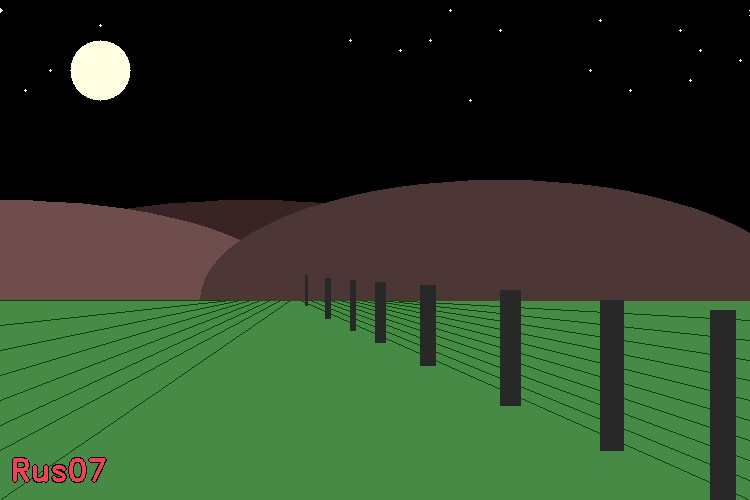
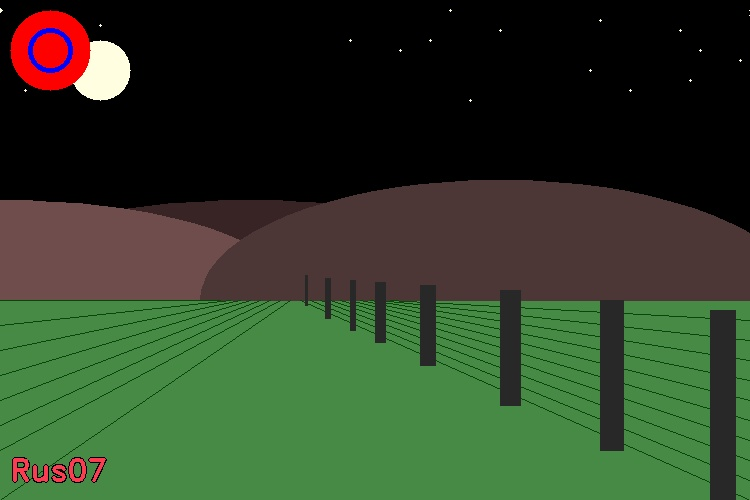
29/08/2022

Changed region(s): [[0.0, 0.0, 0.1227, 0.18]]

diff --git a/week9/HSI_trackbar.py b/week9/HSI_trackbar.py
@@ -1,0 +1,28 @@
+import cv2
+import numpy
+
+
+def nothing(x):
+    pass
+
+
+img = numpy.zeros((512, 512, 3), numpy.uint8)
+cv2.namedWindow("WOW ZAA!!!", cv2.WINDOW_NORMAL)
+
+cv2.createTrackbar("H", "WOW ZAA!!!", 0, 180, nothing)
+cv2.createTrackbar("S", "WOW ZAA!!!", 0, 255, nothing)
+cv2.createTrackbar("I", "WOW ZAA!!!", 0, 255, nothing)
+
+while(True):
+    cv2.imshow("WOW ZAA!!!", img)
+    if cv2.waitKey(1) & 0xFF == ord('q'):
+        break
+
+    r = cv2.getTrackbarPos("H", "WOW ZAA!!!")
+    g = cv2.getTrackbarPos("S", "WOW ZAA!!!")
+    b = cv2.getTrackbarPos("I", "WOW ZAA!!!")
+
+    img[:] = [r, g, b]
+    img = cv2.cvtColor(img, cv2.COLOR_HSV2BGR)
+
+cv2.destroyAllWindows()

diff --git a/week9/RGB_trackbar.py b/week9/RGB_trackbar.py
@@ -1,0 +1,29 @@
+import cv2
+import numpy
+
+
+def nothing(x):
+    pass
+
+
+# window
+img = numpy.zeros((512, 512, 3), numpy.uint8)
+cv2.namedWindow("WOW ZAA!!!", cv2.WINDOW_NORMAL)
+
+# color trackbar
+cv2.createTrackbar("R", "WOW ZAA!!!", 0, 255, nothing)
+cv2.createTrackbar("G", "WOW ZAA!!!", 0, 255, nothing)
+cv2.createTrackbar("B", "WOW ZAA!!!", 0, 255, nothing)
+
+while True:
+    cv2.imshow("WOW ZAA!!!", img)
+    if cv2.waitKey(1) & 0xFF == ord('q'):
+        break
+
+    r = cv2.getTrackbarPos("R", "WOW ZAA!!!")
+    g = cv2.getTrackbarPos("G", "WOW ZAA!!!")
+    b = cv2.getTrackbarPos("B", "WOW ZAA!!!")
+
+    img[:] = [b, g, r]
+
+cv2.destroyAllWindows()

diff --git a/week5/text.py b/week5/text.py
@@ -82,6 +82,9 @@ canvasDraw = cv2.rectangle(canvasDraw, (305, 275), (307, 305), (40, 40, 40), -1)
 canvasDraw = cv2.putText(canvasDraw, 'Rus07', coordinate, font, fontScale, (0, 0, 0), thickness+2)
 canvasDraw = cv2.putText(canvasDraw, 'Rus07', coordinate, font, fontScale, color, thickness)
 
+canvasDraw = cv2.circle(canvasDraw, (50,50), 40, (0,0,255), -1)
+canvasDraw = cv2.circle(canvasDraw, (50,50), 20, (255,0,0), 3)
+
 cv2.imshow("WoW Zaa!!!", canvasDraw)
 
 os.chdir("D:\\workspace\\python\\week5\\img\\")

diff --git a/week6/resize_image.py b/week6/resize_image.py
@@ -1,7 +1,7 @@
 import cv2
 import os
 
-img = cv2.imread("D:\\workspace\\python\\week6\\img\\roi.jpg")
+img = cv2.imread("D:\\workspace\\python\\week6\\img\\roi.jpg", 0)
 
 print("Original Dimensions : ", img.shape)
 
@@ -13,7 +13,7 @@ width = int(img.shape[1] * 3)
 dim = (width, height)
 resized = cv2.resize(img, dim)
 
-print("Resized Dimensions : ", resized.shape)
+print("Resized Dimensions : ", resized[0, 0])
 
 os.chdir("D:\\workspace\\python\\week6\\img")
 cv2.imwrite("resized.jpg", resized)

diff --git a/week9/addition.py b/week9/addition.py
@@ -1,0 +1,13 @@
+import cv2
+import numpy
+
+img1 = cv2.imread("D://workspace//python//week9//images//gokublack.jpg")
+img2 = cv2.imread("D://workspace//python//week9//images//lightning.png")
+
+# image1, image1_weight, image2, image2_weight, gammaValue
+img_result = cv2.addWeighted(img1, 0.5, img2, 1, -35)
+
+cv2.imshow("WOW ZAA!!!", img_result)
+cv2.imwrite("D://workspace//python//week9//images//gokublacknlightning.jpg", img_result)
+cv2.waitKey(0)
+cv2.destroyAllWindows()

diff --git a/week7/image_rotation.py b/week7/image_rotation.py
@@ -1,0 +1,16 @@
+import cv2
+import numpy
+
+img = cv2.imread("D:\\workspace\\python\\week7\\img\\animal1.jpg")
+
+h, w = img.shape[:2]
+# print("Width: ", w, ",Height: ", h)
+# rotation matrix
+M = cv2.getRotationMatrix2D((w/2, h/2), 180, 3)
+res = cv2.warpAffine(img, M, (w, h))
+
+cv2.imshow("wow zaa OG!!!", img)
+cv2.imshow("wow zaa RES!!!", res)
+cv2.imwrite("D:\\workspace\\python\\week7\\img\\rotation.jpg", res)
+cv2.waitKey(0)
+cv2.destroyAllWindows()

diff --git a/week7/translation.py b/week7/translation.py
@@ -1,0 +1,15 @@
+import cv2
+import numpy
+
+img = cv2.imread("D:\\workspace\\python\\week7\\img\\animal1.jpg")
+
+# translation image
+M = numpy.float32([[1, 0, -405], [0, 1, -435]])
+h, w = img.shape[:2]
+
+translation = cv2.warpAffine(img, M, (w, h))
+
+cv2.imshow("wow zaa !!", translation)
+cv2.imwrite("D:\\workspace\\python\\week7\\img\\translation1.jpg", translation)
+cv2.waitKey(0)
+cv2.destroyAllWindows()

diff --git a/mid/mid.py b/mid/mid.py
@@ -1,0 +1,13 @@
+import cv2
+import numpy
+
+canvas = numpy.zeros((100, 100, 3), dtype='uint8')
+
+
+# draw_canvas = cv2.ellipse(canvas, (50, 70), (40, 10), 0, 0, 360, (0, 0, 225), -1)
+# draw_canvas = cv2.ellipse(canvas, (50, 40), (10, 40), 50, 1, 360, (0, 0, 255), -1)
+draw_canvas = cv2.line(canvas, (30, 90), (60, 10), (0, 0, 225), 5)
+
+cv2.imshow("a", draw_canvas)
+cv2.waitKey(0)
+cv2.destroyAllWindows()

diff --git a/week9/RGB_split.py b/week9/RGB_split.py
@@ -1,0 +1,19 @@
+import cv2
+import numpy
+
+img = cv2.imread('D://workspace//python//week9//images//rgb.PNG')
+B, G, R = cv2.split(img)
+
+cv2.imshow("WOW ZAA OG!!!", img)
+cv2.waitKey(0)
+
+cv2.imshow("Blue", B)
+cv2.waitKey(0)
+
+cv2.imshow("Green", G)
+cv2.waitKey(0)
+
+cv2.imshow("Red", R)
+cv2.waitKey(0)
+
+cv2.destroyAllWindows()

diff --git a/week6/crop_image.py b/week6/crop_image.py
@@ -8,7 +8,7 @@ h, w = img.shape[:2]
 print("Height: ", h, ", Width: ", w)
 
 # startRow: endRow, starCol: endCol
-roi = img[325:1000, 125:625]
+roi = img[325:500, 125:625]
 
 cv2.imshow("WoW Zaa!!", roi)
 cv2.waitKey(0)

diff --git a/week4/draw.py b/week4/draw.py
@@ -57,6 +57,8 @@ rectangle_endPoint = (300, 450)
 
 draw_canvas = cv2.rectangle(canvas, rectangle_startPoint, rectangle_endPoint, color, thickness-8)
 
+
+
 # triangle
 p1 = (250, 150)
 p2 = (200, 220)

diff --git a/week6/translation_image.py b/week6/translation_image.py
@@ -14,3 +14,4 @@ cv2.imshow("Original", img)
 cv2.imshow("Original", translate)
 cv2.waitKey(0)
 cv2.destroyAllWindows()
+
